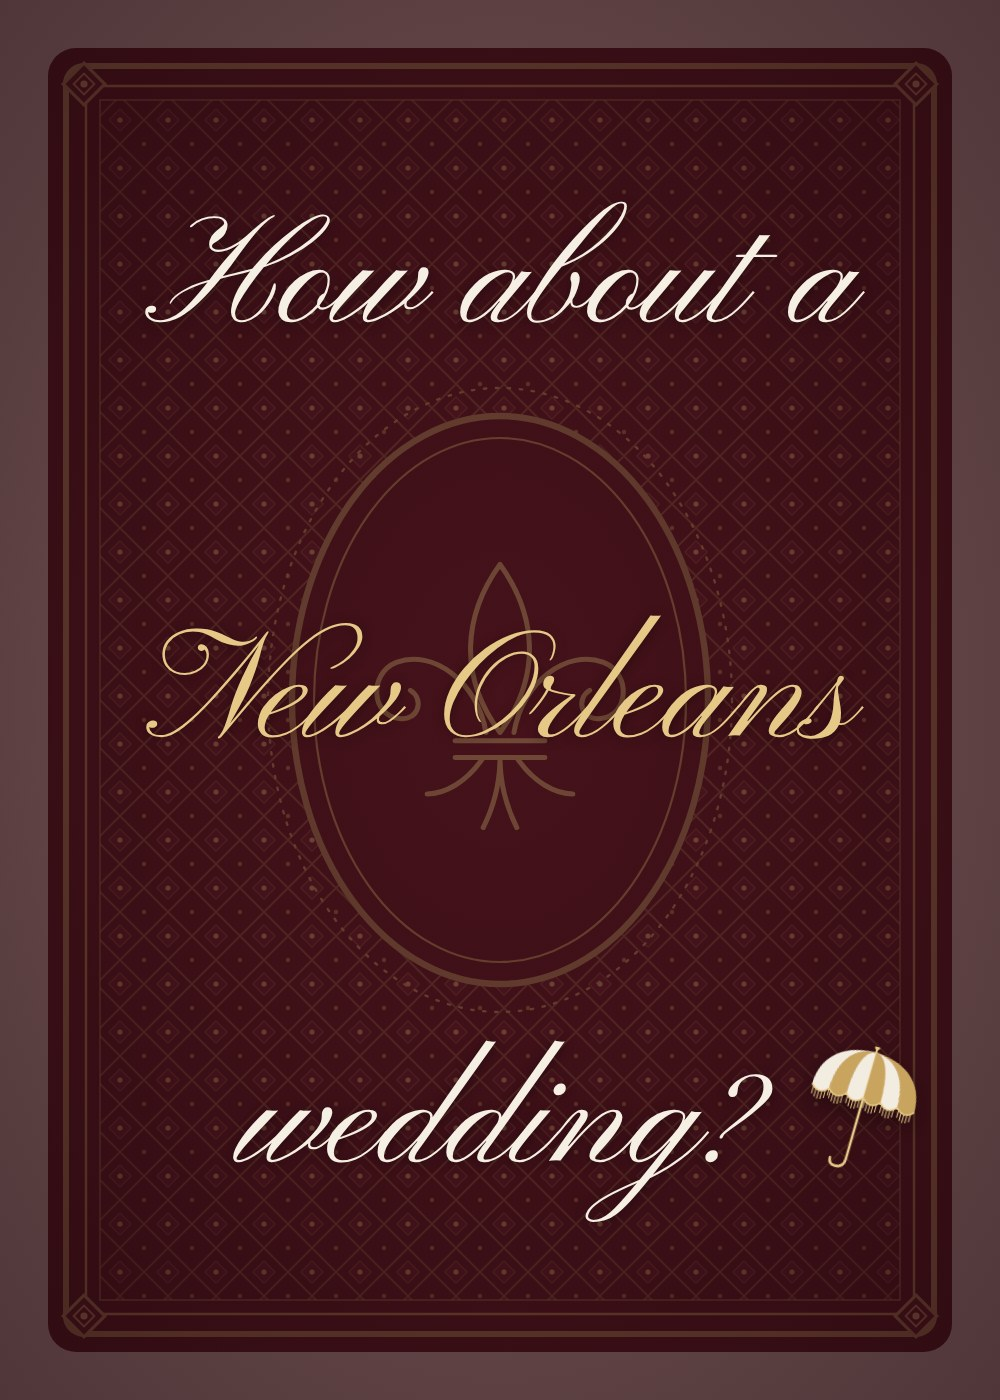
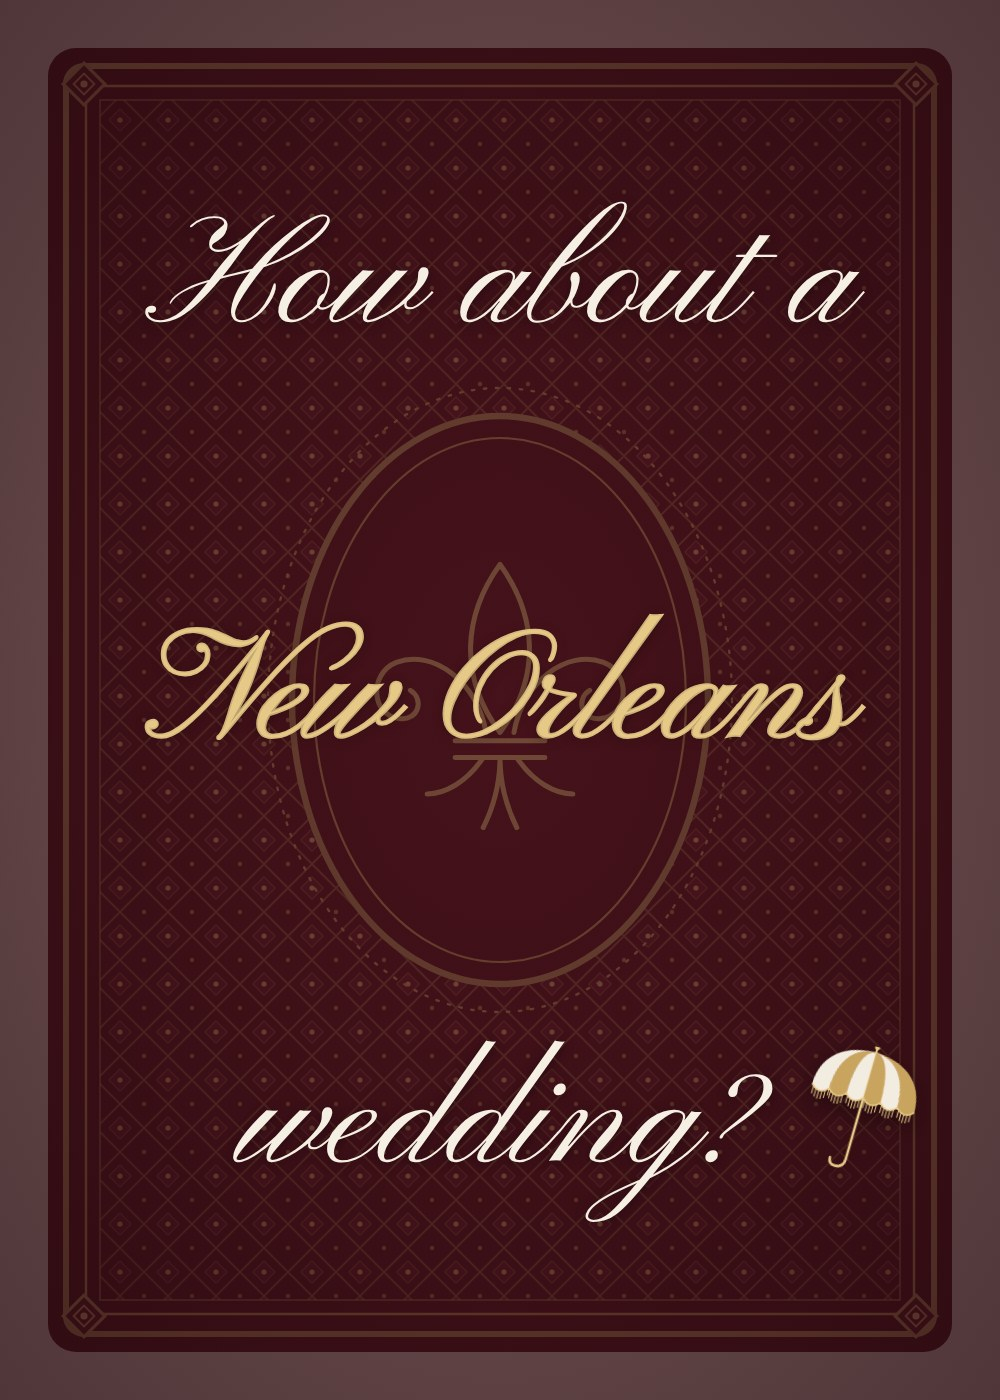
Preview tests: bold New Orleans
Claude-Session: https://claude.ai/code/session_016KBQnmGzJaodTgtuWJa9K5

Changed region(s): [[0.434, 0.43, 0.868, 0.5529], [0.155, 0.43, 0.403, 0.5221]]

diff --git a/preview-test/portrait.html b/preview-test/portrait.html
@@ -10,13 +10,13 @@
   <meta property="og:url" content="https://aneworleanswedding.com/preview-test/portrait.html">
   <meta property="og:title" content="Ailsa ⚜ André">
   <meta property="og:description" content="Save the date · January 8, 2028 · New Orleans, Louisiana">
-  <meta property="og:image" content="https://aneworleanswedding.com/assets/og-card-portrait.jpg?v=13">
+  <meta property="og:image" content="https://aneworleanswedding.com/assets/og-card-portrait.jpg?v=14">
   <meta property="og:image:type" content="image/jpeg">
   <meta property="og:image:width" content="1000">
   <meta property="og:image:height" content="1400">
   <meta property="og:image:alt" content="A maroon playing card back with a gold fleur-de-lis medallion">
   <meta name="twitter:card" content="summary_large_image">
-  <meta name="twitter:image" content="https://aneworleanswedding.com/assets/og-card-portrait.jpg?v=13">
+  <meta name="twitter:image" content="https://aneworleanswedding.com/assets/og-card-portrait.jpg?v=14">
   <link rel="icon" href="../favicon.svg" type="image/svg+xml">
   <style>body{margin:0;min-height:100vh;display:grid;place-items:center;background:#f8f4ec;font-family:Georgia,serif;color:#2f3a33;text-align:center;padding:24px}a{color:#5c1a24}</style>
 </head>

diff --git a/preview-test/square.html b/preview-test/square.html
@@ -10,13 +10,13 @@
   <meta property="og:url" content="https://aneworleanswedding.com/preview-test/square.html">
   <meta property="og:title" content="Ailsa ⚜ André">
   <meta property="og:description" content="Save the date · January 8, 2028 · New Orleans, Louisiana">
-  <meta property="og:image" content="https://aneworleanswedding.com/assets/og-card-square.jpg?v=13">
+  <meta property="og:image" content="https://aneworleanswedding.com/assets/og-card-square.jpg?v=14">
   <meta property="og:image:type" content="image/jpeg">
   <meta property="og:image:width" content="1200">
   <meta property="og:image:height" content="1200">
   <meta property="og:image:alt" content="A maroon playing card back with a gold fleur-de-lis medallion">
   <meta name="twitter:card" content="summary_large_image">
-  <meta name="twitter:image" content="https://aneworleanswedding.com/assets/og-card-square.jpg?v=13">
+  <meta name="twitter:image" content="https://aneworleanswedding.com/assets/og-card-square.jpg?v=14">
   <link rel="icon" href="../favicon.svg" type="image/svg+xml">
   <style>body{margin:0;min-height:100vh;display:grid;place-items:center;background:#f8f4ec;font-family:Georgia,serif;color:#2f3a33;text-align:center;padding:24px}a{color:#5c1a24}</style>
 </head>

diff --git a/tools/make-previews.js b/tools/make-previews.js
@@ -36,7 +36,7 @@ const titleCSS = (k, pos) => `
 .title{position:absolute;inset:0;text-shadow:0 2px 12px rgba(0,0,0,.35)}
 .title > *{position:absolute;left:0;right:0;transform:translateY(-50%);display:flex;justify-content:center;align-items:center;text-align:center}
 .title .a{top:${pos.a}px;font-family:"Pinyon Script",cursive;color:#f6f0e4;font-size:${156*k}px;line-height:1;white-space:nowrap}
-.title .no{top:${pos.no}px;font-family:"Pinyon Script",cursive;color:#e6c887;font-size:${156*k}px;line-height:1.15;white-space:nowrap}
+.title .no{top:${pos.no}px;font-family:"Pinyon Script",cursive;color:#e6c887;font-size:${156*k}px;-webkit-text-stroke:${3.2*k}px #e6c887;paint-order:stroke fill;line-height:1.15;white-space:nowrap}
 .title .wed{top:${pos.wed}px}
 .title .wed .w{position:relative;display:inline-block}
 .title .wed span{font-family:"Pinyon Script",cursive;color:#f6f0e4;font-size:${156*k}px;line-height:1}
